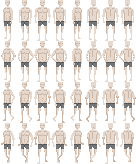
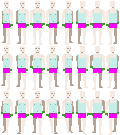
minor

diff --git a/client/script/texture.js b/client/script/texture.js
@@ -81,7 +81,7 @@ window.TEXTURE = {
 
     initCharacter: () => {
 
-        let actions = ['stand1', 'stand2', 'walk1', 'walk2'];
+        let actions = ['stand', 'walk1', 'walk2'];
         let sides = ['w', 'sw', 's', 'se', 'e', 'ne', 'n', 'nw'];
 
         for (let c = 0; c < TEXTURE.characters.length; c++) {
@@ -124,8 +124,7 @@ window.TEXTURE = {
         if (action.includes('stand')) {
 
             return [
-                TEXTURE['character_' + character + '_stand1_' + side],
-                TEXTURE['character_' + character + '_stand2_' + side]
+                TEXTURE['character_' + character + '_stand_' + side]
             ];
 
         } else {
